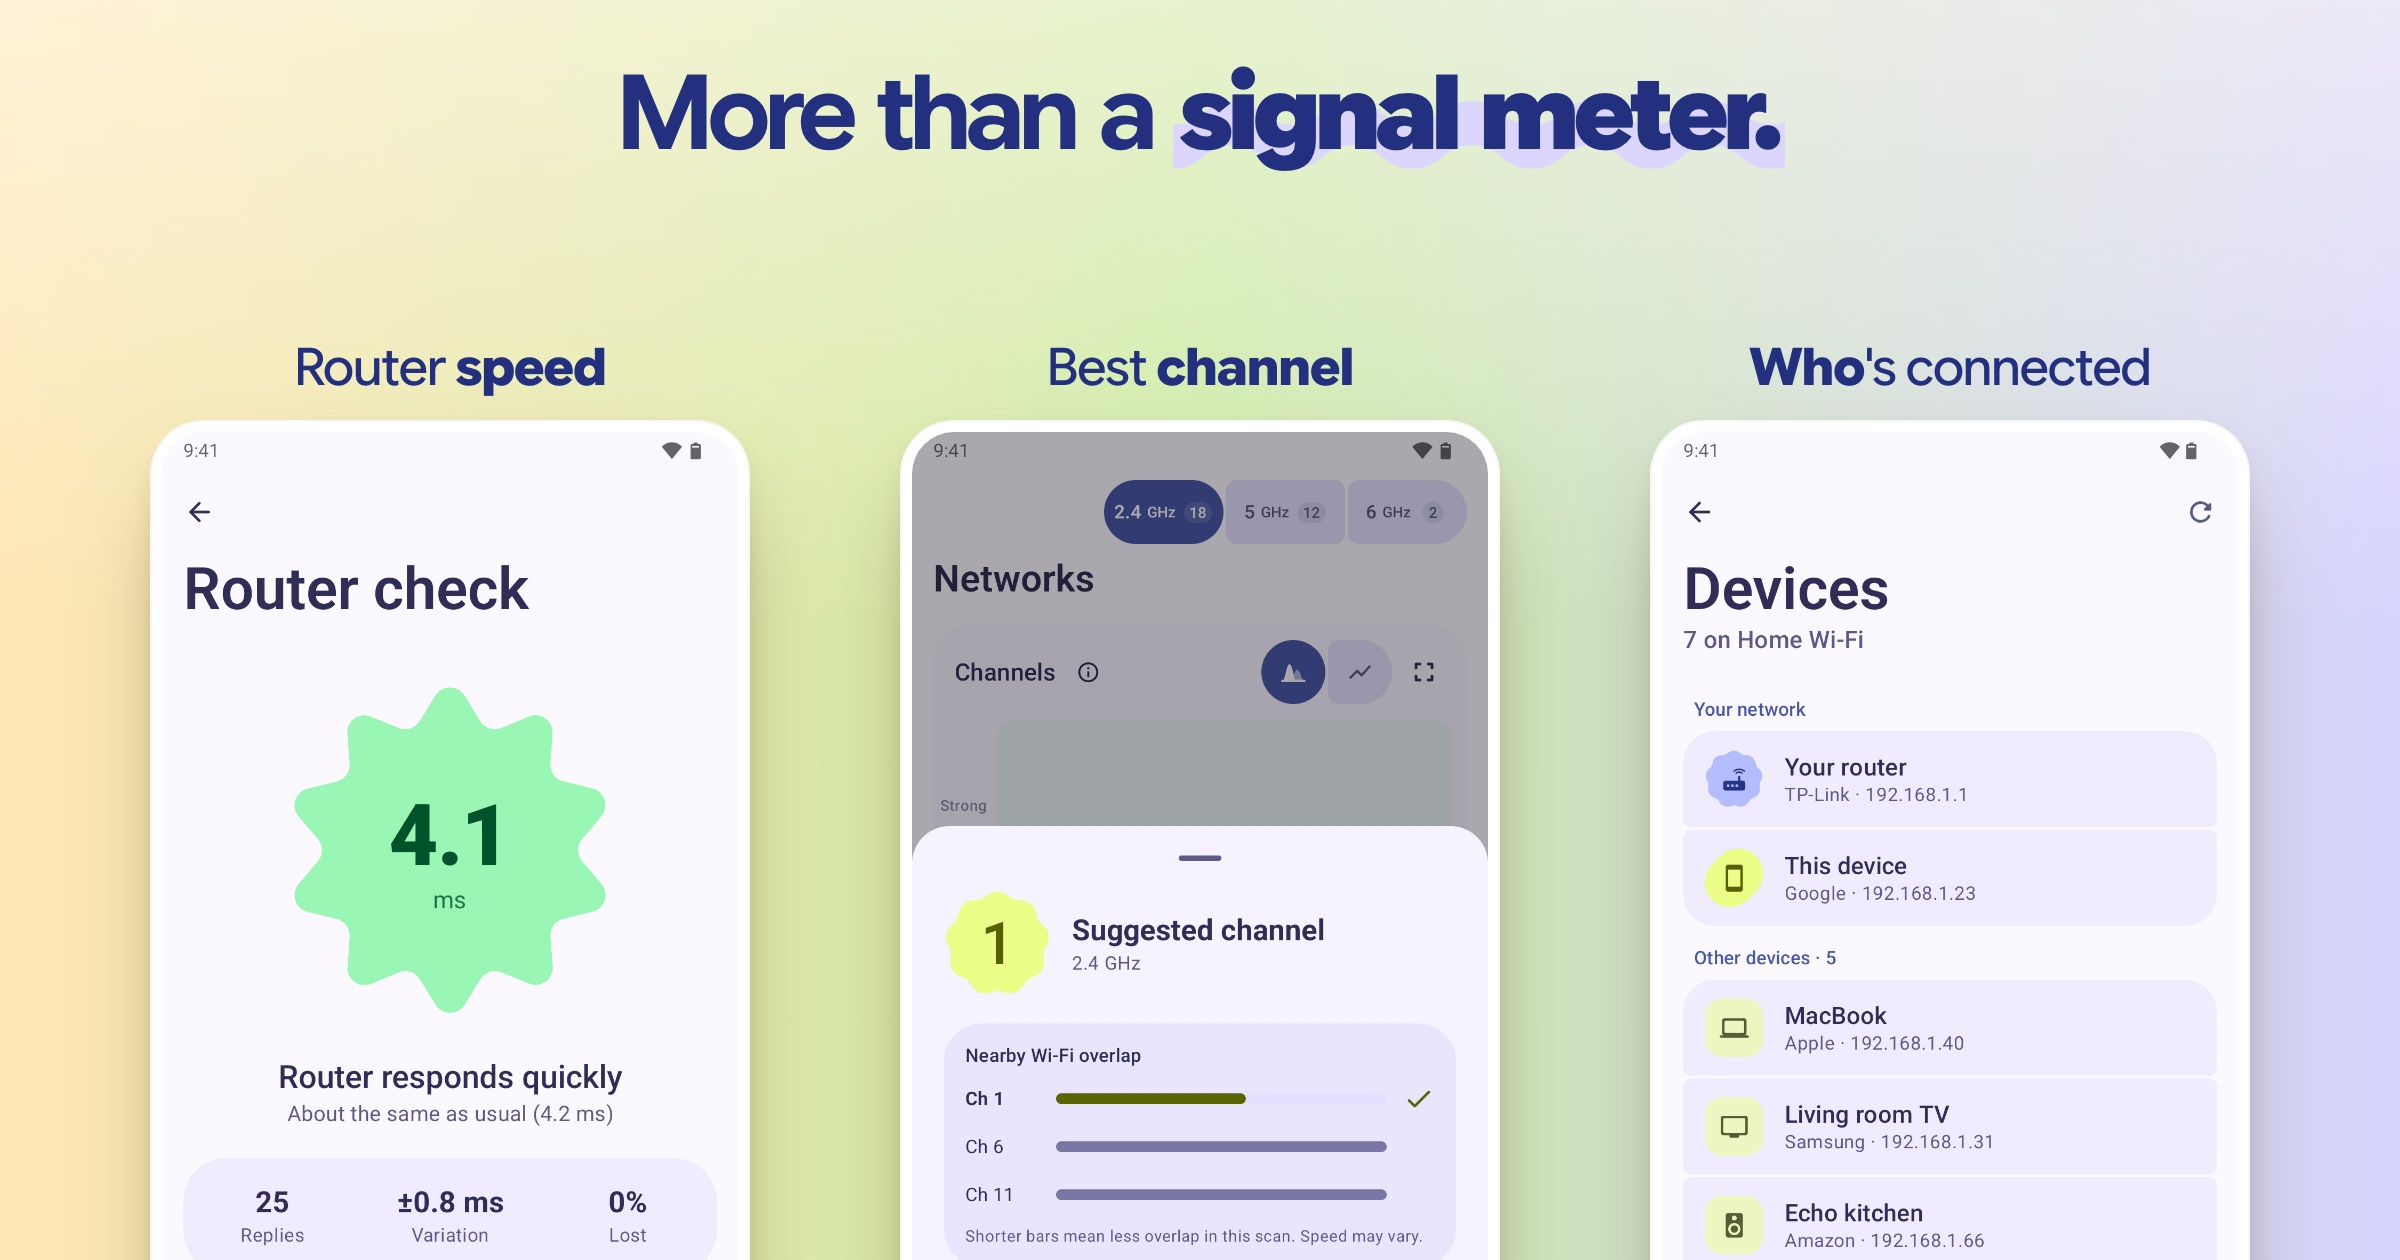
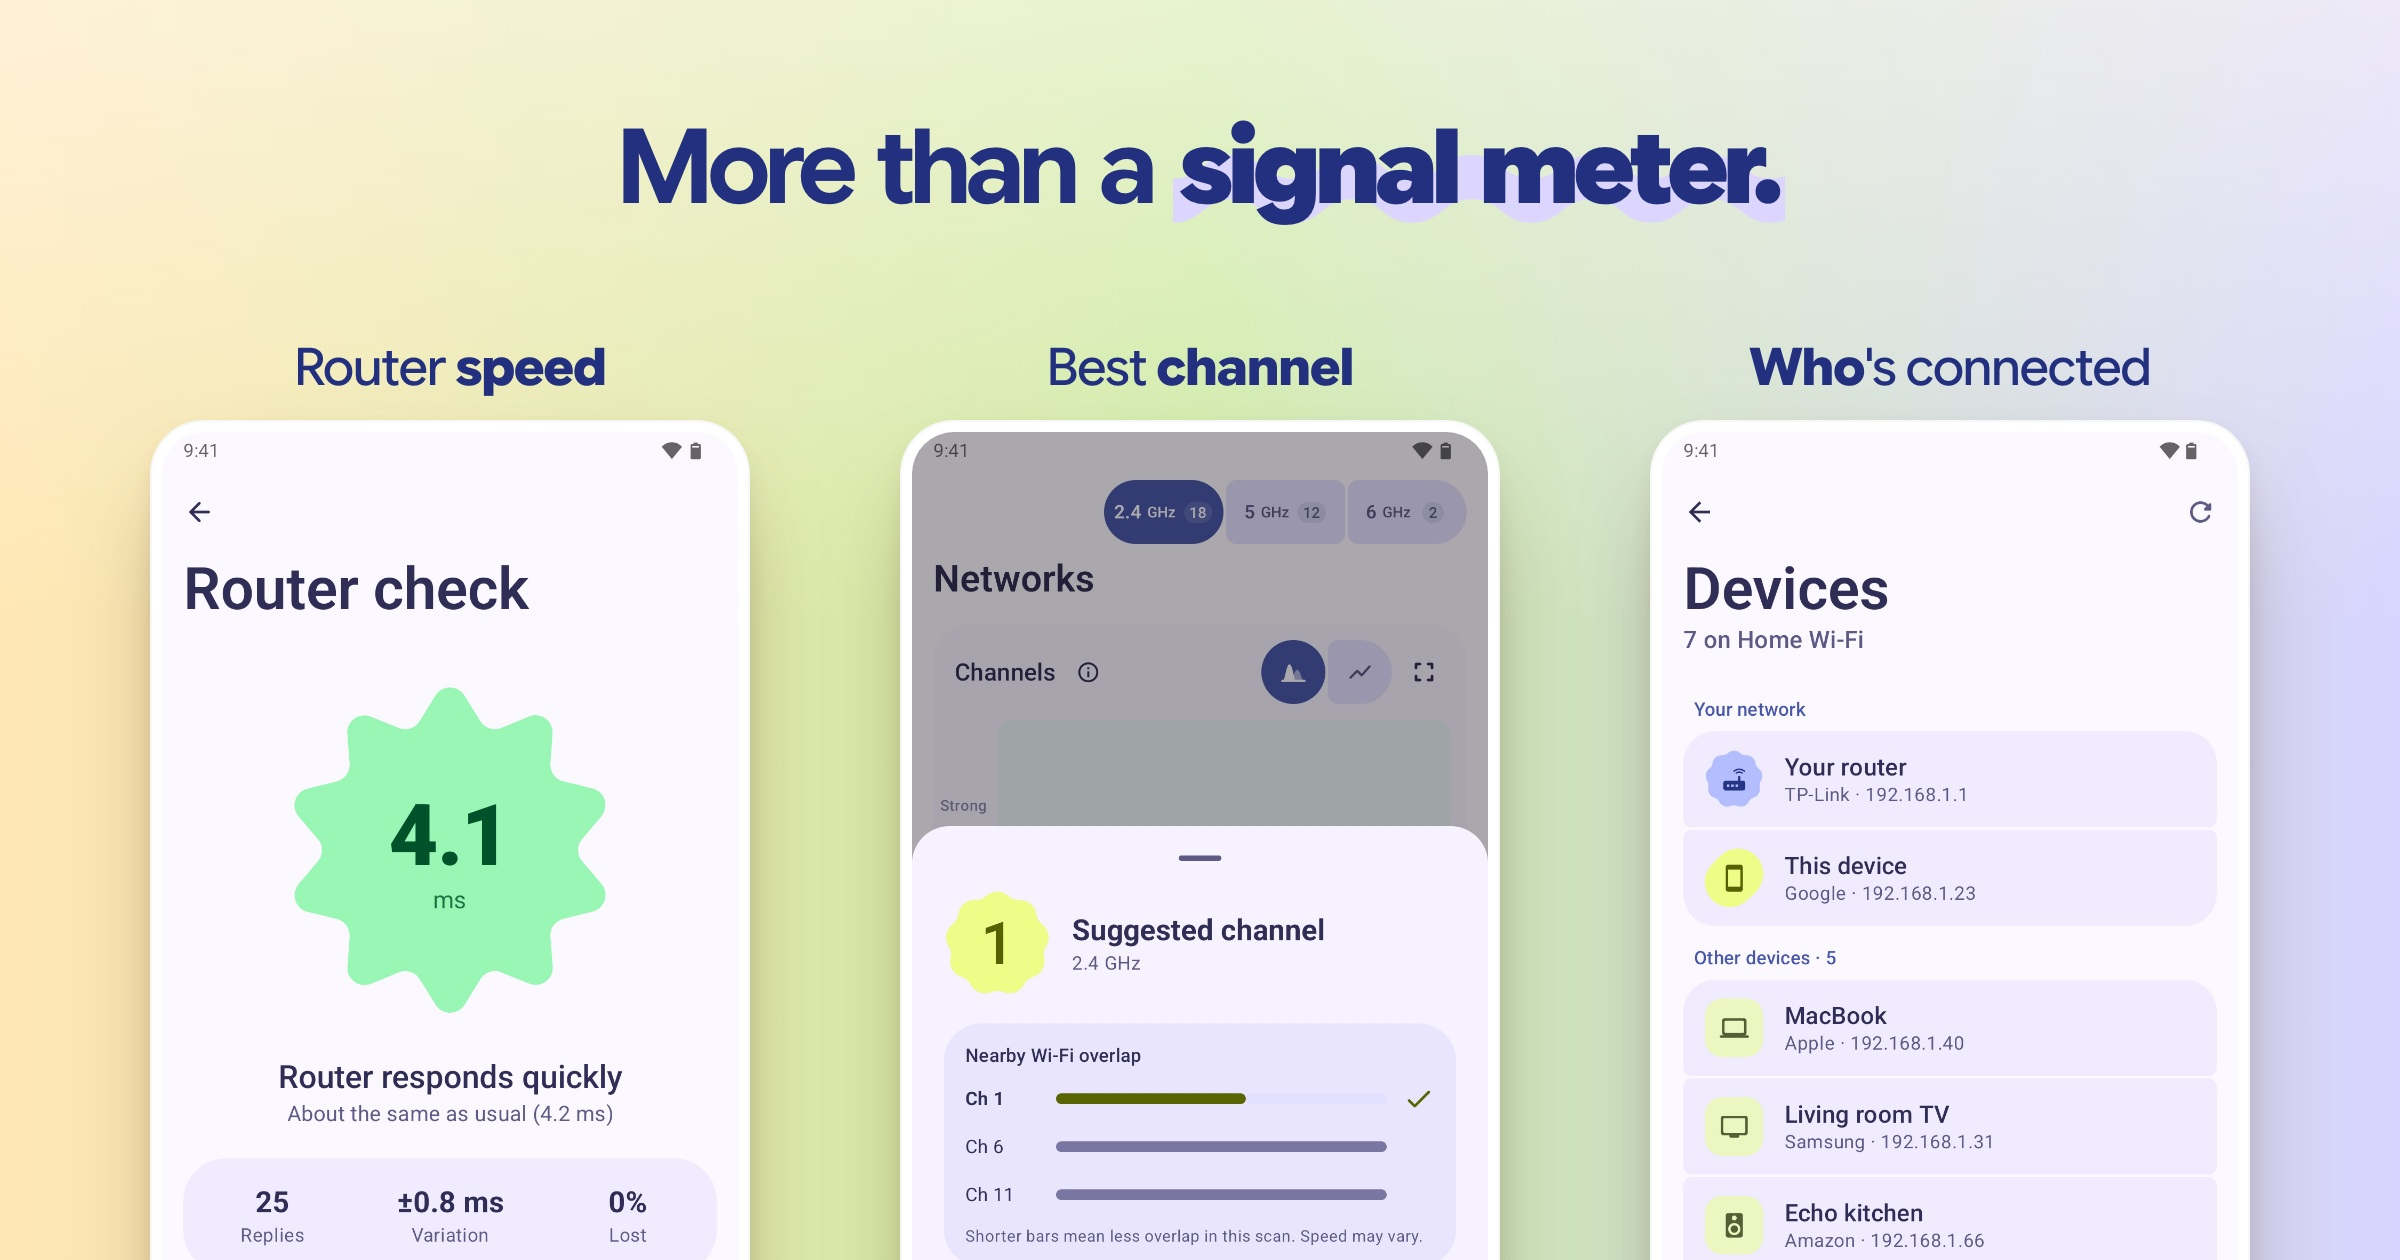
README tools headline sits lower, balanced between the edge and the captions

Changed region(s): [[0.25, 0.0619, 0.75, 0.1857]]

diff --git a/store-listing/theme.css b/store-listing/theme.css
@@ -56,7 +56,7 @@ header p{margin:26px 0 0;font-size:40px;line-height:1.24;font-weight:400;letter-
   font-size:150px;font-weight:700;letter-spacing:-5px;color:var(--ink)}
 .readme .identity img{width:180px;height:180px;border-radius:48px;display:block;box-shadow:0 24px 50px -20px #22307f66}
 /* Trio: one headline, then equal phones in an even row, each under a short caption. */
-.readme .trio header{left:0;right:0;top:64px;text-align:center}
+.readme .trio header{left:0;right:0;top:118px;text-align:center}
 .readme .trio h1{font-size:104px}
 .readme .trio .device{--bezel:12px;--radius:60px;width:600px;top:420px}
 .readme .trio .one{left:150px}
